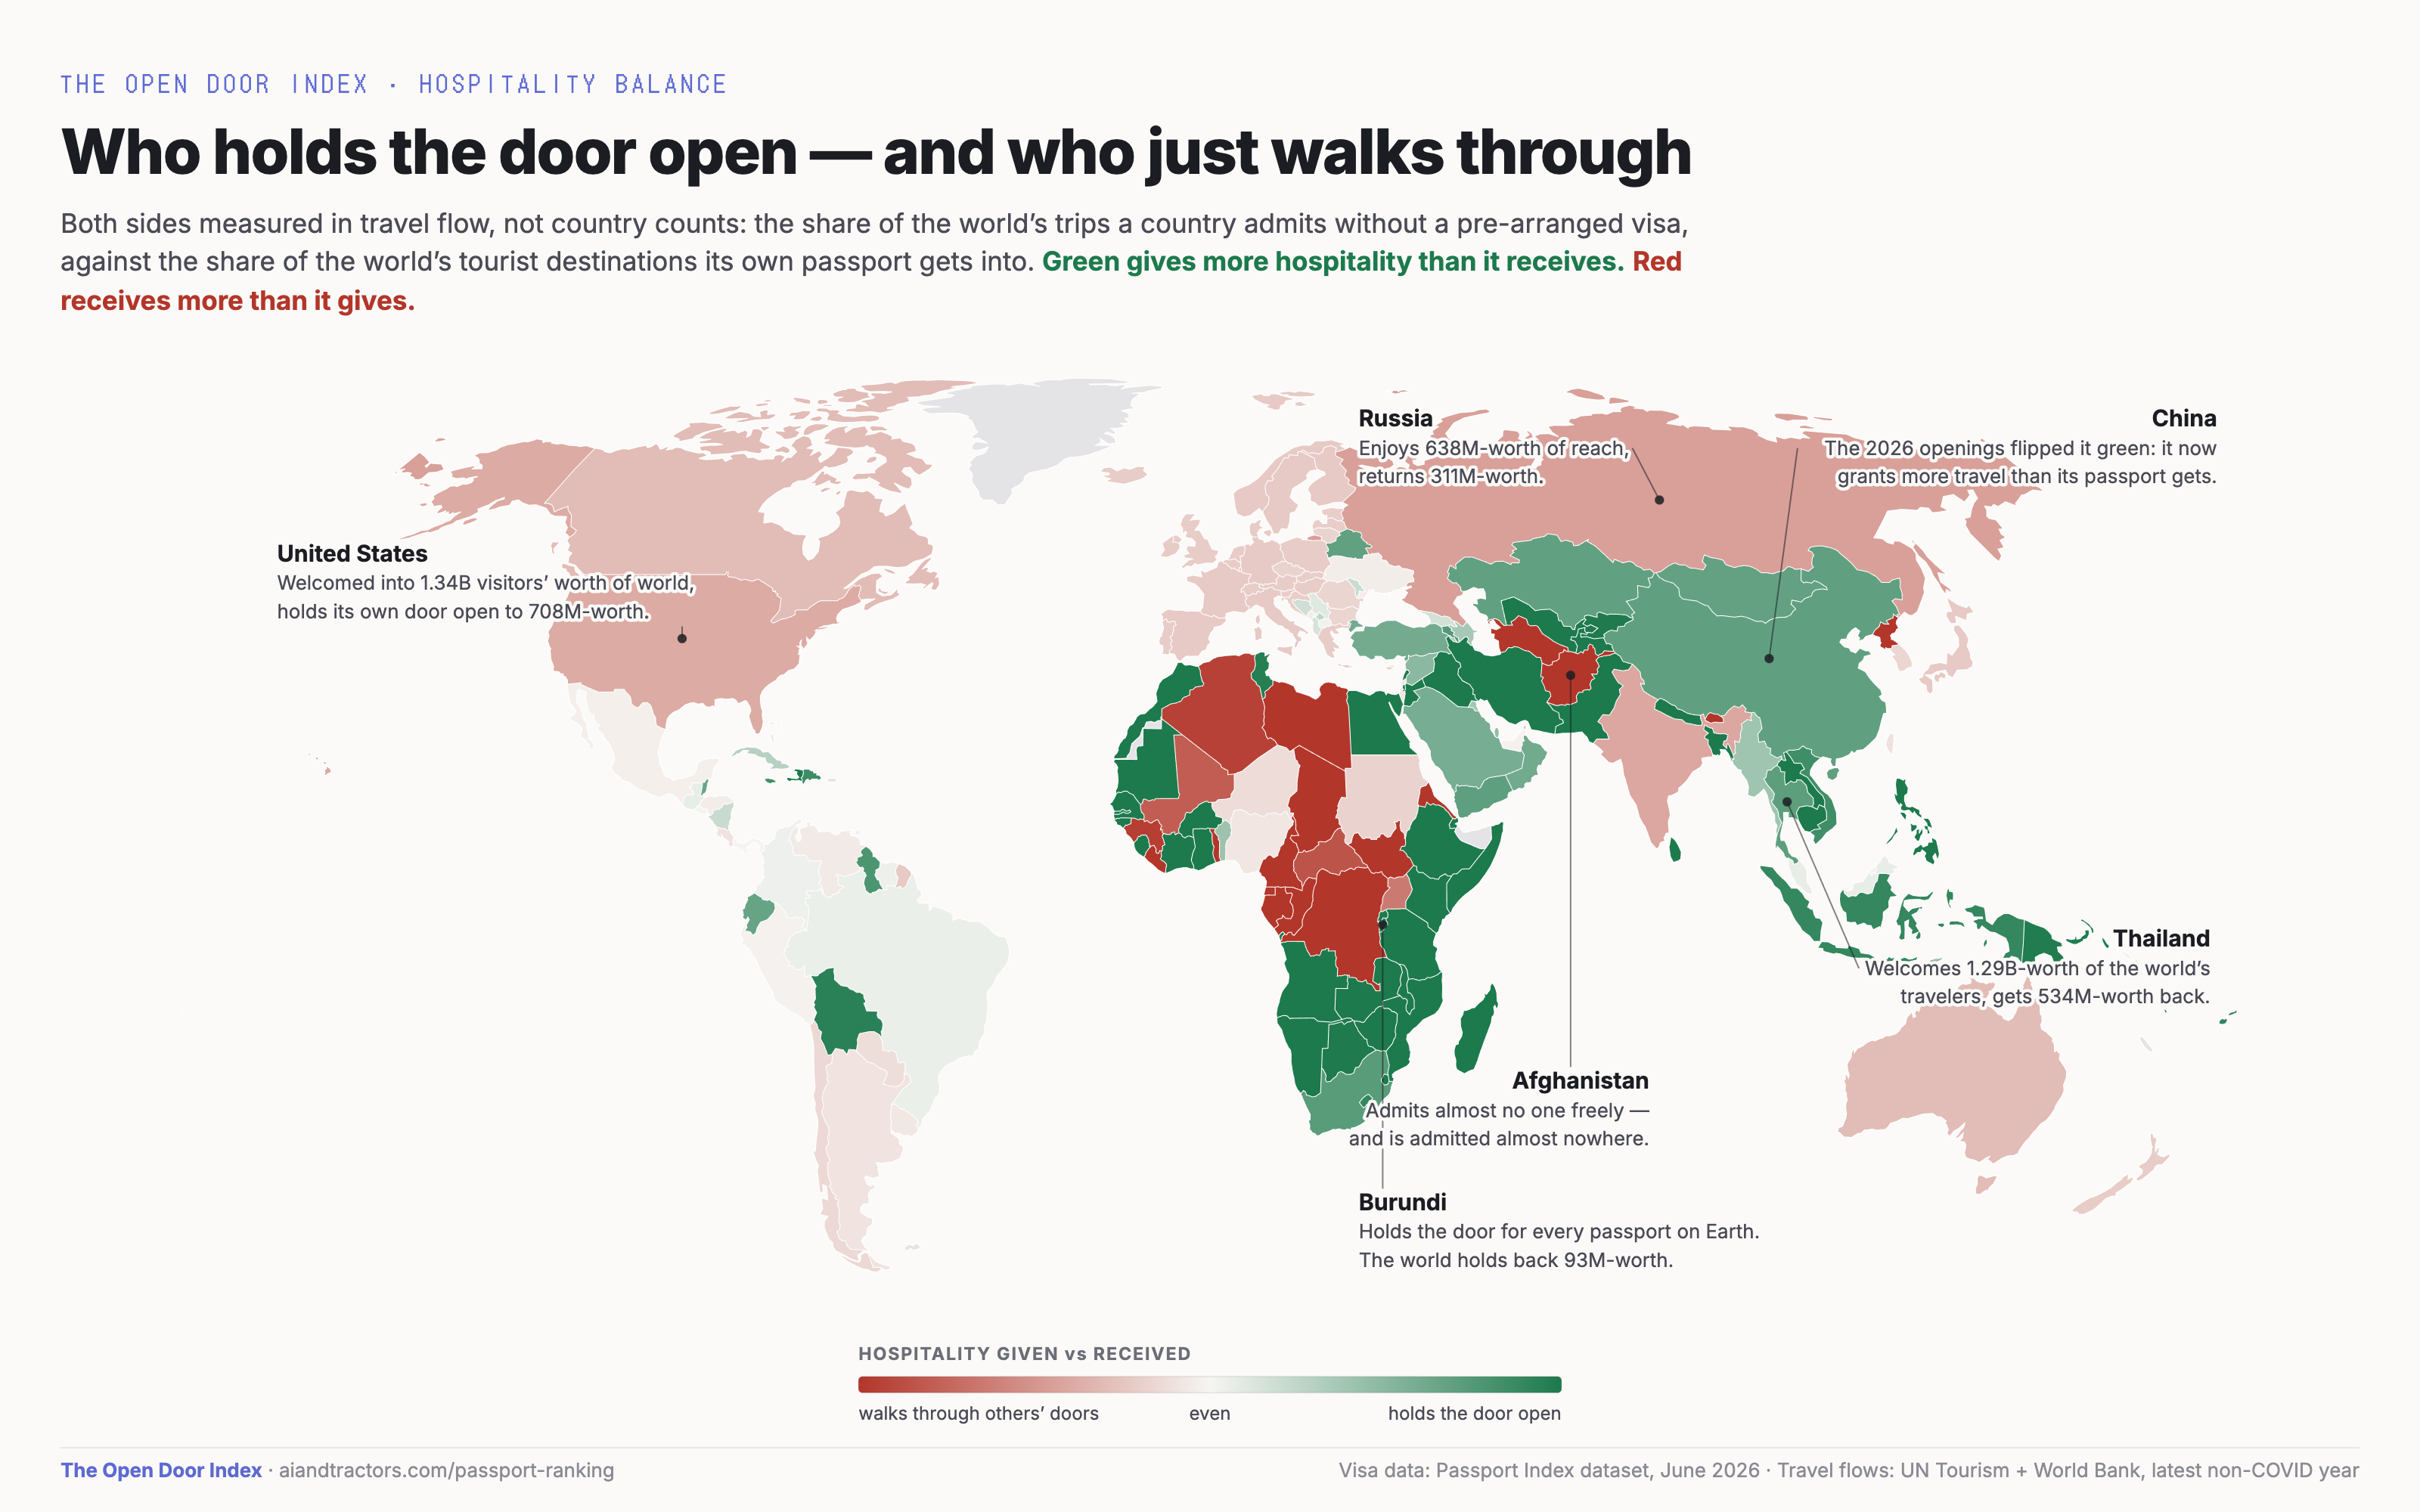
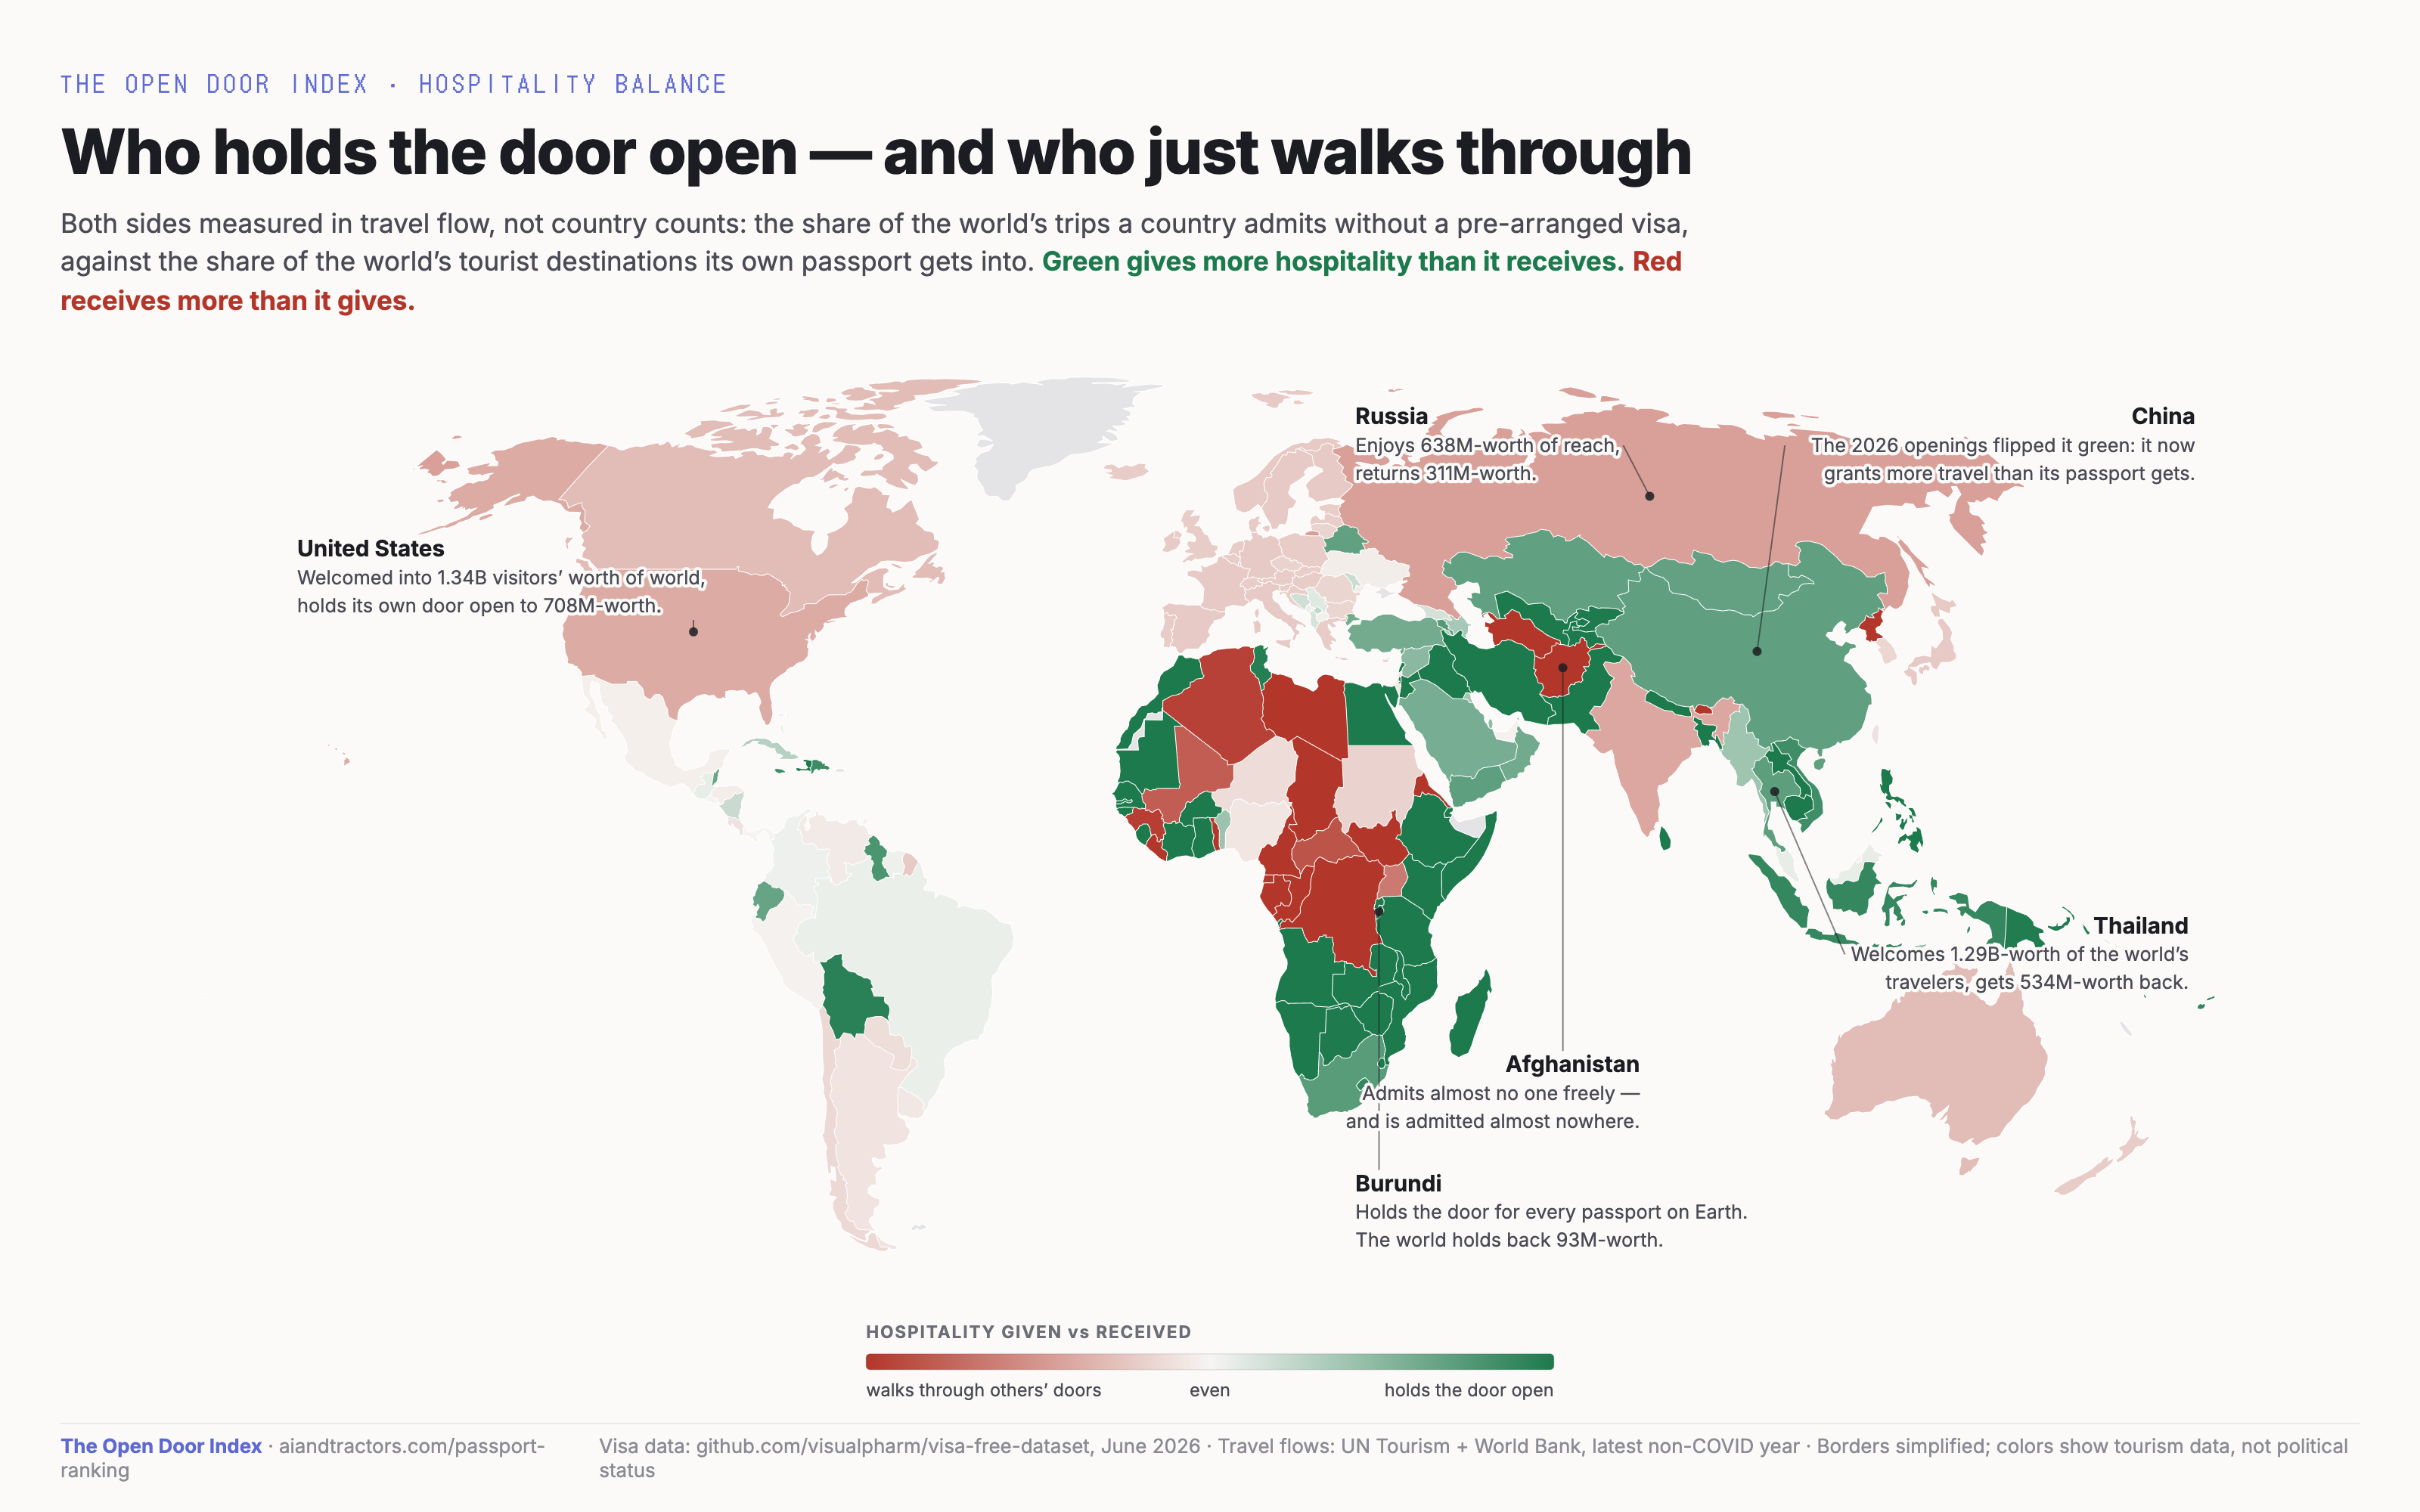
Gray out Crimea as disputed territory; add sources and borders disclaimer to footer
Crimea is now its own no-data feature (gray) instead of part of any
country. Footer cites visa-free-dataset on GitHub, UN Tourism / World
Bank, Natural Earth, and notes that borders are simplified and colors
represent tourism-flow data, not political status. Same line appended
to the three share-map footers.

diff --git a/pages/passport-ranking.js b/pages/passport-ranking.js
@@ -811,6 +811,15 @@ function RankingRow({ p, isSelected, isInCompare, onSelect, onToggleCompare, max
 function PageFooter() {
   return (
     <footer className="page-footer">
+      <div className="footer-note">
+        Sources: <a href="https://github.com/visualpharm/visa-free-dataset" target="_blank" rel="noopener">visa-free-dataset</a> on
+        GitHub (visa rules), UN Tourism and World Bank (tourist arrivals),{' '}
+        <a href="https://www.naturalearthdata.com/" target="_blank" rel="noopener">Natural Earth</a> (map geometry).
+      </div>
+      <div className="footer-note">
+        Country borders and disputed territories are simplified for visualization.
+        Colors represent tourism-flow data, not political status.
+      </div>
       <div className="footer-base">
         <span>© 2026 Ivan Braun</span>
         <span className="footer-spacer" />

diff --git a/share-maps/map1-hospitality-balance.html b/share-maps/map1-hospitality-balance.html
@@ -134,7 +134,7 @@
 <path d="M944.312,234.643L942.893,234.785L940.836,231.922L940.73,231.161L938.983,231.177L937.61,229.847L936.807,229.981L935.035,228.543L931.909,227.315L931.918,224.91L930.981,223.174L936.307,222.407L937.323,223.7L938.962,224.559L938.37,225.795L940.74,227.482L939.886,229.061L941.776,230.399L943.669,231.211Z" fill="rgb(84,153,119)" stroke="#ffffff" stroke-width="0.6"/>
 <path d="M798.929,138.458L800.306,135.84L803.005,132.743L803.766,127.472L801.392,125.207L800.747,119.329L802.632,115.211L805.993,115.285L807.022,113.555L805.663,112.065L810.286,105.98L813.103,101.233L814.927,98.205L818.078,98.219L818.657,95.867L824.888,96.545L824.982,93.774L826.967,93.604L831.616,95.66L837.164,98.535L838.309,105.107L839.687,106.781L834.129,108L831.314,111.028L832.202,113.688L827.282,117.207L821.132,121.003L819.299,127.26L822.106,130.414L825.707,132.911L823.028,138.012L819.46,139.074L818.823,146.758L817.177,151.085L812.774,150.639L811.005,154.312L806.839,154.525L805.383,150.146L802.041,144.914Z" fill="rgb(231,202,197)" stroke="#ffffff" stroke-width="0.6"/>
 <path d="M861.392,150.78L865.372,151.947L866.058,153.093L867.868,152.544L871.584,153.651L872.294,155.832L871.714,157.087L874.488,160.148L876.113,161.005L876.04,161.854L878.639,162.681L879.9,163.93L878.642,164.958L875.655,164.799L875.01,165.237L876.13,166.802L877.508,169.835L874.37,170.115L873.393,171.15L873.507,173.546L871.956,173.087L868.646,173.312L867.515,172.203L866.241,173.031L864.744,172.339L861.82,172.243L857.536,171.11L853.744,170.733L850.893,170.845L849.017,172.13L847.263,172.315L846.941,170.203L845.558,168.009L847.648,167.041L847.451,165.165L846.22,163.373L845.813,161.299L849.343,161.33L853.083,159.562L853.569,156.929L856.34,155.43L855.708,153.353L857.792,152.567Z" fill="rgb(97,161,129)" stroke="#ffffff" stroke-width="0.6"/>
-<path d="M877.508,169.835L878.921,170.019L879.682,168.945L880.837,169.186L884.591,168.729L887.408,171.407L886.634,172.371L887.184,173.843L890.193,174.077L891.866,176.141L891.942,177.077L896.96,178.759L899.694,177.998L902.405,180.24L904.581,180.192L910.398,181.748L910.696,183.153L909.62,185.674L910.935,188.332L910.618,189.941L907.007,190.292L905.281,191.642L905.512,193.788L902.533,194.181L900.242,195.748L896.71,196.003L893.693,197.811L888.061,199.275L888.898,198.074L891.775,199.118L893.03,199.308L893.666,200.271L888.061,199.275L887.464,198.748L881.348,197.523L880.843,195.707L877.391,196.307L876.317,198.979L873.794,202.579L871.951,201.746L870.232,202.529L868.412,201.631L869.318,201.103L869.796,199.431L870.657,197.885L870.276,197.013L871.026,196.627L871.479,197.293L873.754,197.441L874.727,197.079L873.95,196.586L874.119,195.863L872.632,194.632L871.827,192.608L870.344,191.814L870.41,190.178L868.54,188.879L866.95,188.699L863.987,187.198L861.528,187.671L860.713,188.381L859.106,188.381L858.296,189.516L855.551,189.974L854.336,190.717L852.448,189.54L850.018,189.516L847.618,188.985L846.086,190.023L845.697,188.724L843.457,187.41L844.011,185.471L844.929,184.218L845.771,184.502L844.587,182.341L847.563,178.362L849.357,177.804L849.595,176.463L847.263,172.315L849.017,172.13L850.893,170.845L853.744,170.733L857.536,171.11L861.82,172.243L864.744,172.339L866.241,173.031L867.515,172.203L868.646,173.312L871.956,173.087L873.507,173.546L873.393,171.15L874.37,170.115Z" fill="rgb(243,237,233)" stroke="#ffffff" stroke-width="0.6"/>
+<path d="M877.508,169.835L878.921,170.019L879.682,168.945L880.837,169.186L884.591,168.729L887.408,171.407L886.634,172.371L887.184,173.843L890.193,174.077L891.866,176.141L891.942,177.077L896.96,178.759L899.694,177.998L902.405,180.24L904.581,180.192L910.398,181.748L910.696,183.153L909.62,185.674L910.935,188.332L910.618,189.941L907.007,190.292L905.281,191.642L905.512,193.788L902.533,194.181L900.242,195.748L896.71,196.003L893.693,197.811L894.267,200.419L893.666,200.271L893.03,199.308L891.775,199.118L888.898,198.074L888.061,199.275L887.464,198.748L881.348,197.523L880.843,195.707L877.391,196.307L876.317,198.979L873.794,202.579L871.951,201.746L870.232,202.529L868.412,201.631L869.318,201.103L869.796,199.431L870.657,197.885L870.276,197.013L871.026,196.627L871.479,197.293L873.754,197.441L874.727,197.079L873.95,196.586L874.119,195.863L872.632,194.632L871.827,192.608L870.344,191.814L870.41,190.178L868.54,188.879L866.95,188.699L863.987,187.198L861.528,187.671L860.713,188.381L859.106,188.381L858.296,189.516L855.551,189.974L854.336,190.717L852.448,189.54L850.018,189.516L847.618,188.985L846.086,190.023L845.697,188.724L843.457,187.41L844.011,185.471L844.929,184.218L845.771,184.502L844.587,182.341L847.563,178.362L849.357,177.804L849.595,176.463L847.263,172.315L849.017,172.13L850.893,170.845L853.744,170.733L857.536,171.11L861.82,172.243L864.744,172.339L866.241,173.031L867.515,172.203L868.646,173.312L871.956,173.087L873.507,173.546L873.393,171.15L874.37,170.115Z" fill="rgb(243,237,233)" stroke="#ffffff" stroke-width="0.6"/>
 <path d="M845.813,161.299L846.22,163.373L847.451,165.165L847.648,167.041L845.558,168.009L846.941,170.203L847.263,172.315L849.595,176.463L849.357,177.804L847.563,178.362L844.587,182.341L845.771,184.502L844.929,184.218L841.169,182.373L838.53,183.056L836.711,182.56L834.572,183.592L832.526,181.886L831.042,182.544L830.8,182.252L828.883,179.892L826.069,179.6L825.595,178.104L822.984,177.57L822.53,178.807L820.422,177.821L820.55,176.504L817.741,176.092L815.86,174.552L814.12,171.52L814.296,169.883L813.197,167.353L811.74,165.676L812.668,164.416L811.651,162.029L814.035,160.648L819.556,158.486L823.996,156.905L827.694,157.695L828.08,158.834L831.599,158.889L836.14,159.42L842.835,159.348L844.759,159.855Z" fill="rgb(232,204,199)" stroke="#ffffff" stroke-width="0.6"/>
 <path d="M824.274,188.854L824.134,190.824L822.005,190.84L822.804,191.887L821.763,195.002L821.092,195.822L817.761,195.937L815.906,197.038L812.735,196.668L807.197,195.412L806.258,193.73L802.543,194.567L802.148,195.494L799.797,194.805L797.843,194.673L796.092,193.788L796.618,192.6L796.446,191.748L797.569,191.478L799.557,192.821L800.033,191.544L803.392,191.748L806.067,190.881L807.892,191.028L809.136,192.018L809.445,191.2L808.721,188.055L810.046,187.443L811.244,185.227L814.139,186.774L816.142,184.803L817.446,184.446L820.466,185.911L822.227,185.666L824.034,186.57L823.767,187.182Z" fill="rgb(232,204,199)" stroke="#ffffff" stroke-width="0.6"/>
 <path d="M843.457,187.41L845.697,188.724L846.086,190.023L843.864,191.028L842.381,194.312L840.371,197.605L837.379,198.518L834.978,198.304L832.145,199.579L830.766,200.312L827.537,199.374L824.521,197.293L823.268,196.693L822.412,195.051L821.763,195.002L822.804,191.887L822.005,190.84L824.134,190.824L824.274,188.854L826.291,190.088L827.738,190.619L830.871,190.023L831.091,189.059L832.592,188.912L834.367,188.161L834.802,188.471L836.519,187.867L837.314,186.733L838.523,186.44L842.702,187.908Z" fill="rgb(232,204,199)" stroke="#ffffff" stroke-width="0.6"/>
@@ -197,7 +197,8 @@
 <path d="M838.196,215.814L837.177,216.246L836.855,215.323L835.349,217.743L835.715,219.308L834.871,218.925L833.662,217.327L831.908,216.346L832.285,215.514L832.667,212.815L833.841,211.67L834.535,211.231L835.631,212.068L836.242,212.749L837.554,213.272L839.117,214.293L838.841,214.717Z" fill="rgb(236,240,235)" stroke="#ffffff" stroke-width="0.6"/>
 <path d="M840.494,219.416L840.09,217.635L839.125,217.136L838.196,215.814L838.841,214.717L839.738,214.359L840.142,212.732L840.819,212.458L841.434,213.155L842.186,213.454L842.753,214.235L843.416,214.467L844.248,215.381L844.792,215.348L844.455,216.545L844.04,217.136L844.196,217.502L843.34,217.693L841.095,218.45L840.989,219.458Z" fill="rgb(192,214,201)" stroke="#ffffff" stroke-width="0.6"/>
 <path d="M497.815,373.809L500.298,373.163L501.176,373.339L500.818,377.027L497.239,377.571L496.495,377.127L497.805,375.761Z" fill="rgb(239,241,236)" stroke="#ffffff" stroke-width="0.6"/>
-<path d="M891.69,409.682L887.908,406.393L886.872,404.284L884.5,405.33L882.529,405.003L881.385,405.832L879.473,405.238L876.832,401.153L876.138,399.588L872.918,397.629L871.804,394.657L869.993,392.522L867.085,389.943L867.03,388.335L864.666,386.333L861.736,384.407L863.03,383.863L864.471,382.933L865.492,378.51L866.61,376.214L869.657,375.535L870.421,376.901L872.671,379.783L873.859,380.21L875.374,379.364L878.441,379.532L879.045,380.554L883.289,380.554L883.405,379.532L885.574,378.593L885.984,377.152L887.567,376.13L891.205,379.021L893.399,378.51L895.42,374.94L897.67,372.225L897.23,369.249L896.161,367.799L898.706,367.547L898.961,366.44L900.943,366.784L900.538,370.439L901.164,374.01L903.408,375.962L903.96,377.663L903.948,380.127L904.548,380.227L904.689,384.08L904.081,385.596L901.829,385.714L900.432,388.536L903.063,388.888L905.275,391.299L906.05,393.275L908.021,394.423L910.631,399.806L907.79,403.07L905.198,406.016L902.594,408.293L899.596,408.284L896.163,409.439L893.446,408.334Z" fill="rgb(179,54,42)" stroke="#ffffff" stroke-width="0.6"/><g>
+<path d="M891.69,409.682L887.908,406.393L886.872,404.284L884.5,405.33L882.529,405.003L881.385,405.832L879.473,405.238L876.832,401.153L876.138,399.588L872.918,397.629L871.804,394.657L869.993,392.522L867.085,389.943L867.03,388.335L864.666,386.333L861.736,384.407L863.03,383.863L864.471,382.933L865.492,378.51L866.61,376.214L869.657,375.535L870.421,376.901L872.671,379.783L873.859,380.21L875.374,379.364L878.441,379.532L879.045,380.554L883.289,380.554L883.405,379.532L885.574,378.593L885.984,377.152L887.567,376.13L891.205,379.021L893.399,378.51L895.42,374.94L897.67,372.225L897.23,369.249L896.161,367.799L898.706,367.547L898.961,366.44L900.943,366.784L900.538,370.439L901.164,374.01L903.408,375.962L903.96,377.663L903.948,380.127L904.548,380.227L904.689,384.08L904.081,385.596L901.829,385.714L900.432,388.536L903.063,388.888L905.275,391.299L906.05,393.275L908.021,394.423L910.631,399.806L907.79,403.07L905.198,406.016L902.594,408.293L899.596,408.284L896.163,409.439L893.446,408.334Z" fill="rgb(179,54,42)" stroke="#ffffff" stroke-width="0.6"/>
+<path d="M888.061,199.275L888.898,198.074L891.775,199.118L893.03,199.308L893.666,200.271L894.267,200.419L894.355,200.839L896.405,202.01L900.289,201.721L899.786,203.454L895.697,204.304L890.855,207.131L888.58,206.13L889.118,203.842L884.717,202.414L885.284,201.482L888.722,199.859Z" fill="#e4e4e7" stroke="#ffffff" stroke-width="0.6"/><g>
     <line x1="369.52332492180625" y1="223" x2="369.52332492180625" y2="231.98502547690958" stroke="#1c1d22" stroke-width="1.1" opacity="0.55"/>
     <circle cx="369.52332492180625" cy="231.98502547690958" r="3.4" fill="#1c1d22" opacity="0.85"/>
     <text x="70" y="175" text-anchor="start"
@@ -288,7 +289,7 @@
   
   <div class="footer">
     <span><b>The Open Door Index</b> · aiandtractors.com/passport-ranking</span>
-    <span>Visa data: Passport Index dataset, June 2026 · Travel flows: UN Tourism + World Bank, latest non-COVID year</span>
+    <span>Visa data: github.com/visualpharm/visa-free-dataset, June 2026 · Travel flows: UN Tourism + World Bank, latest non-COVID year · Borders simplified; colors show tourism data, not political status</span>
   </div>
 </div>
 </body></html>

diff --git a/share-maps/map2-hosts-and-guests.html b/share-maps/map2-hosts-and-guests.html
@@ -134,7 +134,7 @@
 <path d="M944.312,234.643L942.893,234.785L940.836,231.922L940.73,231.161L938.983,231.177L937.61,229.847L936.807,229.981L935.035,228.543L931.909,227.315L931.918,224.91L930.981,223.174L936.307,222.407L937.323,223.7L938.962,224.559L938.37,225.795L940.74,227.482L939.886,229.061L941.776,230.399L943.669,231.211Z" fill="rgb(222,223,237)" stroke="#ffffff" stroke-width="0.6"/>
 <path d="M798.929,138.458L800.306,135.84L803.005,132.743L803.766,127.472L801.392,125.207L800.747,119.329L802.632,115.211L805.993,115.285L807.022,113.555L805.663,112.065L810.286,105.98L813.103,101.233L814.927,98.205L818.078,98.219L818.657,95.867L824.888,96.545L824.982,93.774L826.967,93.604L831.616,95.66L837.164,98.535L838.309,105.107L839.687,106.781L834.129,108L831.314,111.028L832.202,113.688L827.282,117.207L821.132,121.003L819.299,127.26L822.106,130.414L825.707,132.911L823.028,138.012L819.46,139.074L818.823,146.758L817.177,151.085L812.774,150.639L811.005,154.312L806.839,154.525L805.383,150.146L802.041,144.914Z" fill="rgb(221,170,140)" stroke="#ffffff" stroke-width="0.6"/>
 <path d="M861.392,150.78L865.372,151.947L866.058,153.093L867.868,152.544L871.584,153.651L872.294,155.832L871.714,157.087L874.488,160.148L876.113,161.005L876.04,161.854L878.639,162.681L879.9,163.93L878.642,164.958L875.655,164.799L875.01,165.237L876.13,166.802L877.508,169.835L874.37,170.115L873.393,171.15L873.507,173.546L871.956,173.087L868.646,173.312L867.515,172.203L866.241,173.031L864.744,172.339L861.82,172.243L857.536,171.11L853.744,170.733L850.893,170.845L849.017,172.13L847.263,172.315L846.941,170.203L845.558,168.009L847.648,167.041L847.451,165.165L846.22,163.373L845.813,161.299L849.343,161.33L853.083,159.562L853.569,156.929L856.34,155.43L855.708,153.353L857.792,152.567Z" fill="rgb(173,178,227)" stroke="#ffffff" stroke-width="0.6"/>
-<path d="M877.508,169.835L878.921,170.019L879.682,168.945L880.837,169.186L884.591,168.729L887.408,171.407L886.634,172.371L887.184,173.843L890.193,174.077L891.866,176.141L891.942,177.077L896.96,178.759L899.694,177.998L902.405,180.24L904.581,180.192L910.398,181.748L910.696,183.153L909.62,185.674L910.935,188.332L910.618,189.941L907.007,190.292L905.281,191.642L905.512,193.788L902.533,194.181L900.242,195.748L896.71,196.003L893.693,197.811L888.061,199.275L888.898,198.074L891.775,199.118L893.03,199.308L893.666,200.271L888.061,199.275L887.464,198.748L881.348,197.523L880.843,195.707L877.391,196.307L876.317,198.979L873.794,202.579L871.951,201.746L870.232,202.529L868.412,201.631L869.318,201.103L869.796,199.431L870.657,197.885L870.276,197.013L871.026,196.627L871.479,197.293L873.754,197.441L874.727,197.079L873.95,196.586L874.119,195.863L872.632,194.632L871.827,192.608L870.344,191.814L870.41,190.178L868.54,188.879L866.95,188.699L863.987,187.198L861.528,187.671L860.713,188.381L859.106,188.381L858.296,189.516L855.551,189.974L854.336,190.717L852.448,189.54L850.018,189.516L847.618,188.985L846.086,190.023L845.697,188.724L843.457,187.41L844.011,185.471L844.929,184.218L845.771,184.502L844.587,182.341L847.563,178.362L849.357,177.804L849.595,176.463L847.263,172.315L849.017,172.13L850.893,170.845L853.744,170.733L857.536,171.11L861.82,172.243L864.744,172.339L866.241,173.031L867.515,172.203L868.646,173.312L871.956,173.087L873.507,173.546L873.393,171.15L874.37,170.115Z" fill="rgb(196,97,42)" stroke="#ffffff" stroke-width="0.6"/>
+<path d="M877.508,169.835L878.921,170.019L879.682,168.945L880.837,169.186L884.591,168.729L887.408,171.407L886.634,172.371L887.184,173.843L890.193,174.077L891.866,176.141L891.942,177.077L896.96,178.759L899.694,177.998L902.405,180.24L904.581,180.192L910.398,181.748L910.696,183.153L909.62,185.674L910.935,188.332L910.618,189.941L907.007,190.292L905.281,191.642L905.512,193.788L902.533,194.181L900.242,195.748L896.71,196.003L893.693,197.811L894.267,200.419L893.666,200.271L893.03,199.308L891.775,199.118L888.898,198.074L888.061,199.275L887.464,198.748L881.348,197.523L880.843,195.707L877.391,196.307L876.317,198.979L873.794,202.579L871.951,201.746L870.232,202.529L868.412,201.631L869.318,201.103L869.796,199.431L870.657,197.885L870.276,197.013L871.026,196.627L871.479,197.293L873.754,197.441L874.727,197.079L873.95,196.586L874.119,195.863L872.632,194.632L871.827,192.608L870.344,191.814L870.41,190.178L868.54,188.879L866.95,188.699L863.987,187.198L861.528,187.671L860.713,188.381L859.106,188.381L858.296,189.516L855.551,189.974L854.336,190.717L852.448,189.54L850.018,189.516L847.618,188.985L846.086,190.023L845.697,188.724L843.457,187.41L844.011,185.471L844.929,184.218L845.771,184.502L844.587,182.341L847.563,178.362L849.357,177.804L849.595,176.463L847.263,172.315L849.017,172.13L850.893,170.845L853.744,170.733L857.536,171.11L861.82,172.243L864.744,172.339L866.241,173.031L867.515,172.203L868.646,173.312L871.956,173.087L873.507,173.546L873.393,171.15L874.37,170.115Z" fill="rgb(196,97,42)" stroke="#ffffff" stroke-width="0.6"/>
 <path d="M845.813,161.299L846.22,163.373L847.451,165.165L847.648,167.041L845.558,168.009L846.941,170.203L847.263,172.315L849.595,176.463L849.357,177.804L847.563,178.362L844.587,182.341L845.771,184.502L844.929,184.218L841.169,182.373L838.53,183.056L836.711,182.56L834.572,183.592L832.526,181.886L831.042,182.544L830.8,182.252L828.883,179.892L826.069,179.6L825.595,178.104L822.984,177.57L822.53,178.807L820.422,177.821L820.55,176.504L817.741,176.092L815.86,174.552L814.12,171.52L814.296,169.883L813.197,167.353L811.74,165.676L812.668,164.416L811.651,162.029L814.035,160.648L819.556,158.486L823.996,156.905L827.694,157.695L828.08,158.834L831.599,158.889L836.14,159.42L842.835,159.348L844.759,159.855Z" fill="rgb(220,221,237)" stroke="#ffffff" stroke-width="0.6"/>
 <path d="M824.274,188.854L824.134,190.824L822.005,190.84L822.804,191.887L821.763,195.002L821.092,195.822L817.761,195.937L815.906,197.038L812.735,196.668L807.197,195.412L806.258,193.73L802.543,194.567L802.148,195.494L799.797,194.805L797.843,194.673L796.092,193.788L796.618,192.6L796.446,191.748L797.569,191.478L799.557,192.821L800.033,191.544L803.392,191.748L806.067,190.881L807.892,191.028L809.136,192.018L809.445,191.2L808.721,188.055L810.046,187.443L811.244,185.227L814.139,186.774L816.142,184.803L817.446,184.446L820.466,185.911L822.227,185.666L824.034,186.57L823.767,187.182Z" fill="rgb(188,192,230)" stroke="#ffffff" stroke-width="0.6"/>
 <path d="M843.457,187.41L845.697,188.724L846.086,190.023L843.864,191.028L842.381,194.312L840.371,197.605L837.379,198.518L834.978,198.304L832.145,199.579L830.766,200.312L827.537,199.374L824.521,197.293L823.268,196.693L822.412,195.051L821.763,195.002L822.804,191.887L822.005,190.84L824.134,190.824L824.274,188.854L826.291,190.088L827.738,190.619L830.871,190.023L831.091,189.059L832.592,188.912L834.367,188.161L834.802,188.471L836.519,187.867L837.314,186.733L838.523,186.44L842.702,187.908Z" fill="rgb(212,213,235)" stroke="#ffffff" stroke-width="0.6"/>
@@ -197,7 +197,8 @@
 <path d="M838.196,215.814L837.177,216.246L836.855,215.323L835.349,217.743L835.715,219.308L834.871,218.925L833.662,217.327L831.908,216.346L832.285,215.514L832.667,212.815L833.841,211.67L834.535,211.231L835.631,212.068L836.242,212.749L837.554,213.272L839.117,214.293L838.841,214.717Z" fill="#e4e4e7" stroke="#ffffff" stroke-width="0.6"/>
 <path d="M840.494,219.416L840.09,217.635L839.125,217.136L838.196,215.814L838.841,214.717L839.738,214.359L840.142,212.732L840.819,212.458L841.434,213.155L842.186,213.454L842.753,214.235L843.416,214.467L844.248,215.381L844.792,215.348L844.455,216.545L844.04,217.136L844.196,217.502L843.34,217.693L841.095,218.45L840.989,219.458Z" fill="#e4e4e7" stroke="#ffffff" stroke-width="0.6"/>
 <path d="M497.815,373.809L500.298,373.163L501.176,373.339L500.818,377.027L497.239,377.571L496.495,377.127L497.805,375.761Z" fill="rgb(234,208,193)" stroke="#ffffff" stroke-width="0.6"/>
-<path d="M891.69,409.682L887.908,406.393L886.872,404.284L884.5,405.33L882.529,405.003L881.385,405.832L879.473,405.238L876.832,401.153L876.138,399.588L872.918,397.629L871.804,394.657L869.993,392.522L867.085,389.943L867.03,388.335L864.666,386.333L861.736,384.407L863.03,383.863L864.471,382.933L865.492,378.51L866.61,376.214L869.657,375.535L870.421,376.901L872.671,379.783L873.859,380.21L875.374,379.364L878.441,379.532L879.045,380.554L883.289,380.554L883.405,379.532L885.574,378.593L885.984,377.152L887.567,376.13L891.205,379.021L893.399,378.51L895.42,374.94L897.67,372.225L897.23,369.249L896.161,367.799L898.706,367.547L898.961,366.44L900.943,366.784L900.538,370.439L901.164,374.01L903.408,375.962L903.96,377.663L903.948,380.127L904.548,380.227L904.689,384.08L904.081,385.596L901.829,385.714L900.432,388.536L903.063,388.888L905.275,391.299L906.05,393.275L908.021,394.423L910.631,399.806L907.79,403.07L905.198,406.016L902.594,408.293L899.596,408.284L896.163,409.439L893.446,408.334Z" fill="#e4e4e7" stroke="#ffffff" stroke-width="0.6"/><g>
+<path d="M891.69,409.682L887.908,406.393L886.872,404.284L884.5,405.33L882.529,405.003L881.385,405.832L879.473,405.238L876.832,401.153L876.138,399.588L872.918,397.629L871.804,394.657L869.993,392.522L867.085,389.943L867.03,388.335L864.666,386.333L861.736,384.407L863.03,383.863L864.471,382.933L865.492,378.51L866.61,376.214L869.657,375.535L870.421,376.901L872.671,379.783L873.859,380.21L875.374,379.364L878.441,379.532L879.045,380.554L883.289,380.554L883.405,379.532L885.574,378.593L885.984,377.152L887.567,376.13L891.205,379.021L893.399,378.51L895.42,374.94L897.67,372.225L897.23,369.249L896.161,367.799L898.706,367.547L898.961,366.44L900.943,366.784L900.538,370.439L901.164,374.01L903.408,375.962L903.96,377.663L903.948,380.127L904.548,380.227L904.689,384.08L904.081,385.596L901.829,385.714L900.432,388.536L903.063,388.888L905.275,391.299L906.05,393.275L908.021,394.423L910.631,399.806L907.79,403.07L905.198,406.016L902.594,408.293L899.596,408.284L896.163,409.439L893.446,408.334Z" fill="#e4e4e7" stroke="#ffffff" stroke-width="0.6"/>
+<path d="M888.061,199.275L888.898,198.074L891.775,199.118L893.03,199.308L893.666,200.271L894.267,200.419L894.355,200.839L896.405,202.01L900.289,201.721L899.786,203.454L895.697,204.304L890.855,207.131L888.58,206.13L889.118,203.842L884.717,202.414L885.284,201.482L888.722,199.859Z" fill="#e4e4e7" stroke="#ffffff" stroke-width="0.6"/><g>
     <line x1="680.6" y1="351" x2="745.7569976552774" y2="226.97796963449892" stroke="#1c1d22" stroke-width="1.1" opacity="0.55"/>
     <circle cx="745.7569976552774" cy="226.97796963449892" r="3.4" fill="#1c1d22" opacity="0.85"/>
     <text x="435" y="335" text-anchor="start"
@@ -282,7 +283,7 @@
   
   <div class="footer">
     <span><b>The Open Door Index</b> · aiandtractors.com/passport-ranking</span>
-    <span>UN Tourism arrivals &amp; departures (World Bank fallback), latest non-COVID year per country</span>
+    <span>UN Tourism arrivals &amp; departures (World Bank fallback), latest non-COVID year per country · Borders simplified; colors show tourism data, not political status</span>
   </div>
 </div>
 </body></html>

diff --git a/share-maps/map3-open-door-index.html b/share-maps/map3-open-door-index.html
@@ -134,7 +134,7 @@
 <path d="M944.312,234.643L942.893,234.785L940.836,231.922L940.73,231.161L938.983,231.177L937.61,229.847L936.807,229.981L935.035,228.543L931.909,227.315L931.918,224.91L930.981,223.174L936.307,222.407L937.323,223.7L938.962,224.559L938.37,225.795L940.74,227.482L939.886,229.061L941.776,230.399L943.669,231.211Z" fill="rgb(194,198,236)" stroke="#ffffff" stroke-width="0.6"/>
 <path d="M798.929,138.458L800.306,135.84L803.005,132.743L803.766,127.472L801.392,125.207L800.747,119.329L802.632,115.211L805.993,115.285L807.022,113.555L805.663,112.065L810.286,105.98L813.103,101.233L814.927,98.205L818.078,98.219L818.657,95.867L824.888,96.545L824.982,93.774L826.967,93.604L831.616,95.66L837.164,98.535L838.309,105.107L839.687,106.781L834.129,108L831.314,111.028L832.202,113.688L827.282,117.207L821.132,121.003L819.299,127.26L822.106,130.414L825.707,132.911L823.028,138.012L819.46,139.074L818.823,146.758L817.177,151.085L812.774,150.639L811.005,154.312L806.839,154.525L805.383,150.146L802.041,144.914Z" fill="rgb(96,108,211)" stroke="#ffffff" stroke-width="0.6"/>
 <path d="M861.392,150.78L865.372,151.947L866.058,153.093L867.868,152.544L871.584,153.651L872.294,155.832L871.714,157.087L874.488,160.148L876.113,161.005L876.04,161.854L878.639,162.681L879.9,163.93L878.642,164.958L875.655,164.799L875.01,165.237L876.13,166.802L877.508,169.835L874.37,170.115L873.393,171.15L873.507,173.546L871.956,173.087L868.646,173.312L867.515,172.203L866.241,173.031L864.744,172.339L861.82,172.243L857.536,171.11L853.744,170.733L850.893,170.845L849.017,172.13L847.263,172.315L846.941,170.203L845.558,168.009L847.648,167.041L847.451,165.165L846.22,163.373L845.813,161.299L849.343,161.33L853.083,159.562L853.569,156.929L856.34,155.43L855.708,153.353L857.792,152.567Z" fill="rgb(193,198,236)" stroke="#ffffff" stroke-width="0.6"/>
-<path d="M877.508,169.835L878.921,170.019L879.682,168.945L880.837,169.186L884.591,168.729L887.408,171.407L886.634,172.371L887.184,173.843L890.193,174.077L891.866,176.141L891.942,177.077L896.96,178.759L899.694,177.998L902.405,180.24L904.581,180.192L910.398,181.748L910.696,183.153L909.62,185.674L910.935,188.332L910.618,189.941L907.007,190.292L905.281,191.642L905.512,193.788L902.533,194.181L900.242,195.748L896.71,196.003L893.693,197.811L888.061,199.275L888.898,198.074L891.775,199.118L893.03,199.308L893.666,200.271L888.061,199.275L887.464,198.748L881.348,197.523L880.843,195.707L877.391,196.307L876.317,198.979L873.794,202.579L871.951,201.746L870.232,202.529L868.412,201.631L869.318,201.103L869.796,199.431L870.657,197.885L870.276,197.013L871.026,196.627L871.479,197.293L873.754,197.441L874.727,197.079L873.95,196.586L874.119,195.863L872.632,194.632L871.827,192.608L870.344,191.814L870.41,190.178L868.54,188.879L866.95,188.699L863.987,187.198L861.528,187.671L860.713,188.381L859.106,188.381L858.296,189.516L855.551,189.974L854.336,190.717L852.448,189.54L850.018,189.516L847.618,188.985L846.086,190.023L845.697,188.724L843.457,187.41L844.011,185.471L844.929,184.218L845.771,184.502L844.587,182.341L847.563,178.362L849.357,177.804L849.595,176.463L847.263,172.315L849.017,172.13L850.893,170.845L853.744,170.733L857.536,171.11L861.82,172.243L864.744,172.339L866.241,173.031L867.515,172.203L868.646,173.312L871.956,173.087L873.507,173.546L873.393,171.15L874.37,170.115Z" fill="rgb(130,139,219)" stroke="#ffffff" stroke-width="0.6"/>
+<path d="M877.508,169.835L878.921,170.019L879.682,168.945L880.837,169.186L884.591,168.729L887.408,171.407L886.634,172.371L887.184,173.843L890.193,174.077L891.866,176.141L891.942,177.077L896.96,178.759L899.694,177.998L902.405,180.24L904.581,180.192L910.398,181.748L910.696,183.153L909.62,185.674L910.935,188.332L910.618,189.941L907.007,190.292L905.281,191.642L905.512,193.788L902.533,194.181L900.242,195.748L896.71,196.003L893.693,197.811L894.267,200.419L893.666,200.271L893.03,199.308L891.775,199.118L888.898,198.074L888.061,199.275L887.464,198.748L881.348,197.523L880.843,195.707L877.391,196.307L876.317,198.979L873.794,202.579L871.951,201.746L870.232,202.529L868.412,201.631L869.318,201.103L869.796,199.431L870.657,197.885L870.276,197.013L871.026,196.627L871.479,197.293L873.754,197.441L874.727,197.079L873.95,196.586L874.119,195.863L872.632,194.632L871.827,192.608L870.344,191.814L870.41,190.178L868.54,188.879L866.95,188.699L863.987,187.198L861.528,187.671L860.713,188.381L859.106,188.381L858.296,189.516L855.551,189.974L854.336,190.717L852.448,189.54L850.018,189.516L847.618,188.985L846.086,190.023L845.697,188.724L843.457,187.41L844.011,185.471L844.929,184.218L845.771,184.502L844.587,182.341L847.563,178.362L849.357,177.804L849.595,176.463L847.263,172.315L849.017,172.13L850.893,170.845L853.744,170.733L857.536,171.11L861.82,172.243L864.744,172.339L866.241,173.031L867.515,172.203L868.646,173.312L871.956,173.087L873.507,173.546L873.393,171.15L874.37,170.115Z" fill="rgb(130,139,219)" stroke="#ffffff" stroke-width="0.6"/>
 <path d="M845.813,161.299L846.22,163.373L847.451,165.165L847.648,167.041L845.558,168.009L846.941,170.203L847.263,172.315L849.595,176.463L849.357,177.804L847.563,178.362L844.587,182.341L845.771,184.502L844.929,184.218L841.169,182.373L838.53,183.056L836.711,182.56L834.572,183.592L832.526,181.886L831.042,182.544L830.8,182.252L828.883,179.892L826.069,179.6L825.595,178.104L822.984,177.57L822.53,178.807L820.422,177.821L820.55,176.504L817.741,176.092L815.86,174.552L814.12,171.52L814.296,169.883L813.197,167.353L811.74,165.676L812.668,164.416L811.651,162.029L814.035,160.648L819.556,158.486L823.996,156.905L827.694,157.695L828.08,158.834L831.599,158.889L836.14,159.42L842.835,159.348L844.759,159.855Z" fill="rgb(98,110,211)" stroke="#ffffff" stroke-width="0.6"/>
 <path d="M824.274,188.854L824.134,190.824L822.005,190.84L822.804,191.887L821.763,195.002L821.092,195.822L817.761,195.937L815.906,197.038L812.735,196.668L807.197,195.412L806.258,193.73L802.543,194.567L802.148,195.494L799.797,194.805L797.843,194.673L796.092,193.788L796.618,192.6L796.446,191.748L797.569,191.478L799.557,192.821L800.033,191.544L803.392,191.748L806.067,190.881L807.892,191.028L809.136,192.018L809.445,191.2L808.721,188.055L810.046,187.443L811.244,185.227L814.139,186.774L816.142,184.803L817.446,184.446L820.466,185.911L822.227,185.666L824.034,186.57L823.767,187.182Z" fill="rgb(98,110,211)" stroke="#ffffff" stroke-width="0.6"/>
 <path d="M843.457,187.41L845.697,188.724L846.086,190.023L843.864,191.028L842.381,194.312L840.371,197.605L837.379,198.518L834.978,198.304L832.145,199.579L830.766,200.312L827.537,199.374L824.521,197.293L823.268,196.693L822.412,195.051L821.763,195.002L822.804,191.887L822.005,190.84L824.134,190.824L824.274,188.854L826.291,190.088L827.738,190.619L830.871,190.023L831.091,189.059L832.592,188.912L834.367,188.161L834.802,188.471L836.519,187.867L837.314,186.733L838.523,186.44L842.702,187.908Z" fill="rgb(98,110,211)" stroke="#ffffff" stroke-width="0.6"/>
@@ -197,7 +197,8 @@
 <path d="M838.196,215.814L837.177,216.246L836.855,215.323L835.349,217.743L835.715,219.308L834.871,218.925L833.662,217.327L831.908,216.346L832.285,215.514L832.667,212.815L833.841,211.67L834.535,211.231L835.631,212.068L836.242,212.749L837.554,213.272L839.117,214.293L838.841,214.717Z" fill="rgb(134,143,220)" stroke="#ffffff" stroke-width="0.6"/>
 <path d="M840.494,219.416L840.09,217.635L839.125,217.136L838.196,215.814L838.841,214.717L839.738,214.359L840.142,212.732L840.819,212.458L841.434,213.155L842.186,213.454L842.753,214.235L843.416,214.467L844.248,215.381L844.792,215.348L844.455,216.545L844.04,217.136L844.196,217.502L843.34,217.693L841.095,218.45L840.989,219.458Z" fill="rgb(162,169,228)" stroke="#ffffff" stroke-width="0.6"/>
 <path d="M497.815,373.809L500.298,373.163L501.176,373.339L500.818,377.027L497.239,377.571L496.495,377.127L497.805,375.761Z" fill="rgb(134,143,220)" stroke="#ffffff" stroke-width="0.6"/>
-<path d="M891.69,409.682L887.908,406.393L886.872,404.284L884.5,405.33L882.529,405.003L881.385,405.832L879.473,405.238L876.832,401.153L876.138,399.588L872.918,397.629L871.804,394.657L869.993,392.522L867.085,389.943L867.03,388.335L864.666,386.333L861.736,384.407L863.03,383.863L864.471,382.933L865.492,378.51L866.61,376.214L869.657,375.535L870.421,376.901L872.671,379.783L873.859,380.21L875.374,379.364L878.441,379.532L879.045,380.554L883.289,380.554L883.405,379.532L885.574,378.593L885.984,377.152L887.567,376.13L891.205,379.021L893.399,378.51L895.42,374.94L897.67,372.225L897.23,369.249L896.161,367.799L898.706,367.547L898.961,366.44L900.943,366.784L900.538,370.439L901.164,374.01L903.408,375.962L903.96,377.663L903.948,380.127L904.548,380.227L904.689,384.08L904.081,385.596L901.829,385.714L900.432,388.536L903.063,388.888L905.275,391.299L906.05,393.275L908.021,394.423L910.631,399.806L907.79,403.07L905.198,406.016L902.594,408.293L899.596,408.284L896.163,409.439L893.446,408.334Z" fill="rgb(229,231,245)" stroke="#ffffff" stroke-width="0.6"/><g>
+<path d="M891.69,409.682L887.908,406.393L886.872,404.284L884.5,405.33L882.529,405.003L881.385,405.832L879.473,405.238L876.832,401.153L876.138,399.588L872.918,397.629L871.804,394.657L869.993,392.522L867.085,389.943L867.03,388.335L864.666,386.333L861.736,384.407L863.03,383.863L864.471,382.933L865.492,378.51L866.61,376.214L869.657,375.535L870.421,376.901L872.671,379.783L873.859,380.21L875.374,379.364L878.441,379.532L879.045,380.554L883.289,380.554L883.405,379.532L885.574,378.593L885.984,377.152L887.567,376.13L891.205,379.021L893.399,378.51L895.42,374.94L897.67,372.225L897.23,369.249L896.161,367.799L898.706,367.547L898.961,366.44L900.943,366.784L900.538,370.439L901.164,374.01L903.408,375.962L903.96,377.663L903.948,380.127L904.548,380.227L904.689,384.08L904.081,385.596L901.829,385.714L900.432,388.536L903.063,388.888L905.275,391.299L906.05,393.275L908.021,394.423L910.631,399.806L907.79,403.07L905.198,406.016L902.594,408.293L899.596,408.284L896.163,409.439L893.446,408.334Z" fill="rgb(229,231,245)" stroke="#ffffff" stroke-width="0.6"/>
+<path d="M888.061,199.275L888.898,198.074L891.775,199.118L893.03,199.308L893.666,200.271L894.267,200.419L894.355,200.839L896.405,202.01L900.289,201.721L899.786,203.454L895.697,204.304L890.855,207.131L888.58,206.13L889.118,203.842L884.717,202.414L885.284,201.482L888.722,199.859Z" fill="#e4e4e7" stroke="#ffffff" stroke-width="0.6"/><g>
     <line x1="1403" y1="221.5" x2="1271.3663950819755" y2="246.28012313767982" stroke="#1c1d22" stroke-width="1.1" opacity="0.55"/>
     <circle cx="1271.3663950819755" cy="246.28012313767982" r="3.4" fill="#1c1d22" opacity="0.85"/>
     <text x="1395" y="195" text-anchor="end"
@@ -280,7 +281,7 @@
     </div>
   <div class="footer">
     <span><b>The Open Door Index</b> · aiandtractors.com/passport-ranking</span>
-    <span>Visa data: Passport Index dataset, June 2026 · Destination volumes: UN Tourism</span>
+    <span>Visa data: github.com/visualpharm/visa-free-dataset, June 2026 · Destination volumes: UN Tourism · Borders simplified; colors show tourism data, not political status</span>
   </div>
 </div>
 </body></html>

diff --git a/public/open-door/styles.css b/public/open-door/styles.css
@@ -549,6 +549,10 @@ button { font-family: inherit; cursor: pointer; }
 
 /* ---- Footer ------------------------------------------------------ */
 .page-footer { margin-top: 60px; padding-top: 24px; border-top: 1px solid var(--border); }
+.footer-note { font-size: 12px; color: var(--muted-2); line-height: 1.6; max-width: 720px; }
+.footer-note + .footer-note { margin-top: 4px; }
+.footer-note a { color: var(--muted-2); text-decoration: underline; text-underline-offset: 2px; }
+.footer-note a:hover { color: var(--ink); }
 .footer-base { display: flex; align-items: center; font-size: 12px; color: var(--muted-2); padding: 18px 0 32px; }
 .footer-spacer { flex: 1; }
 